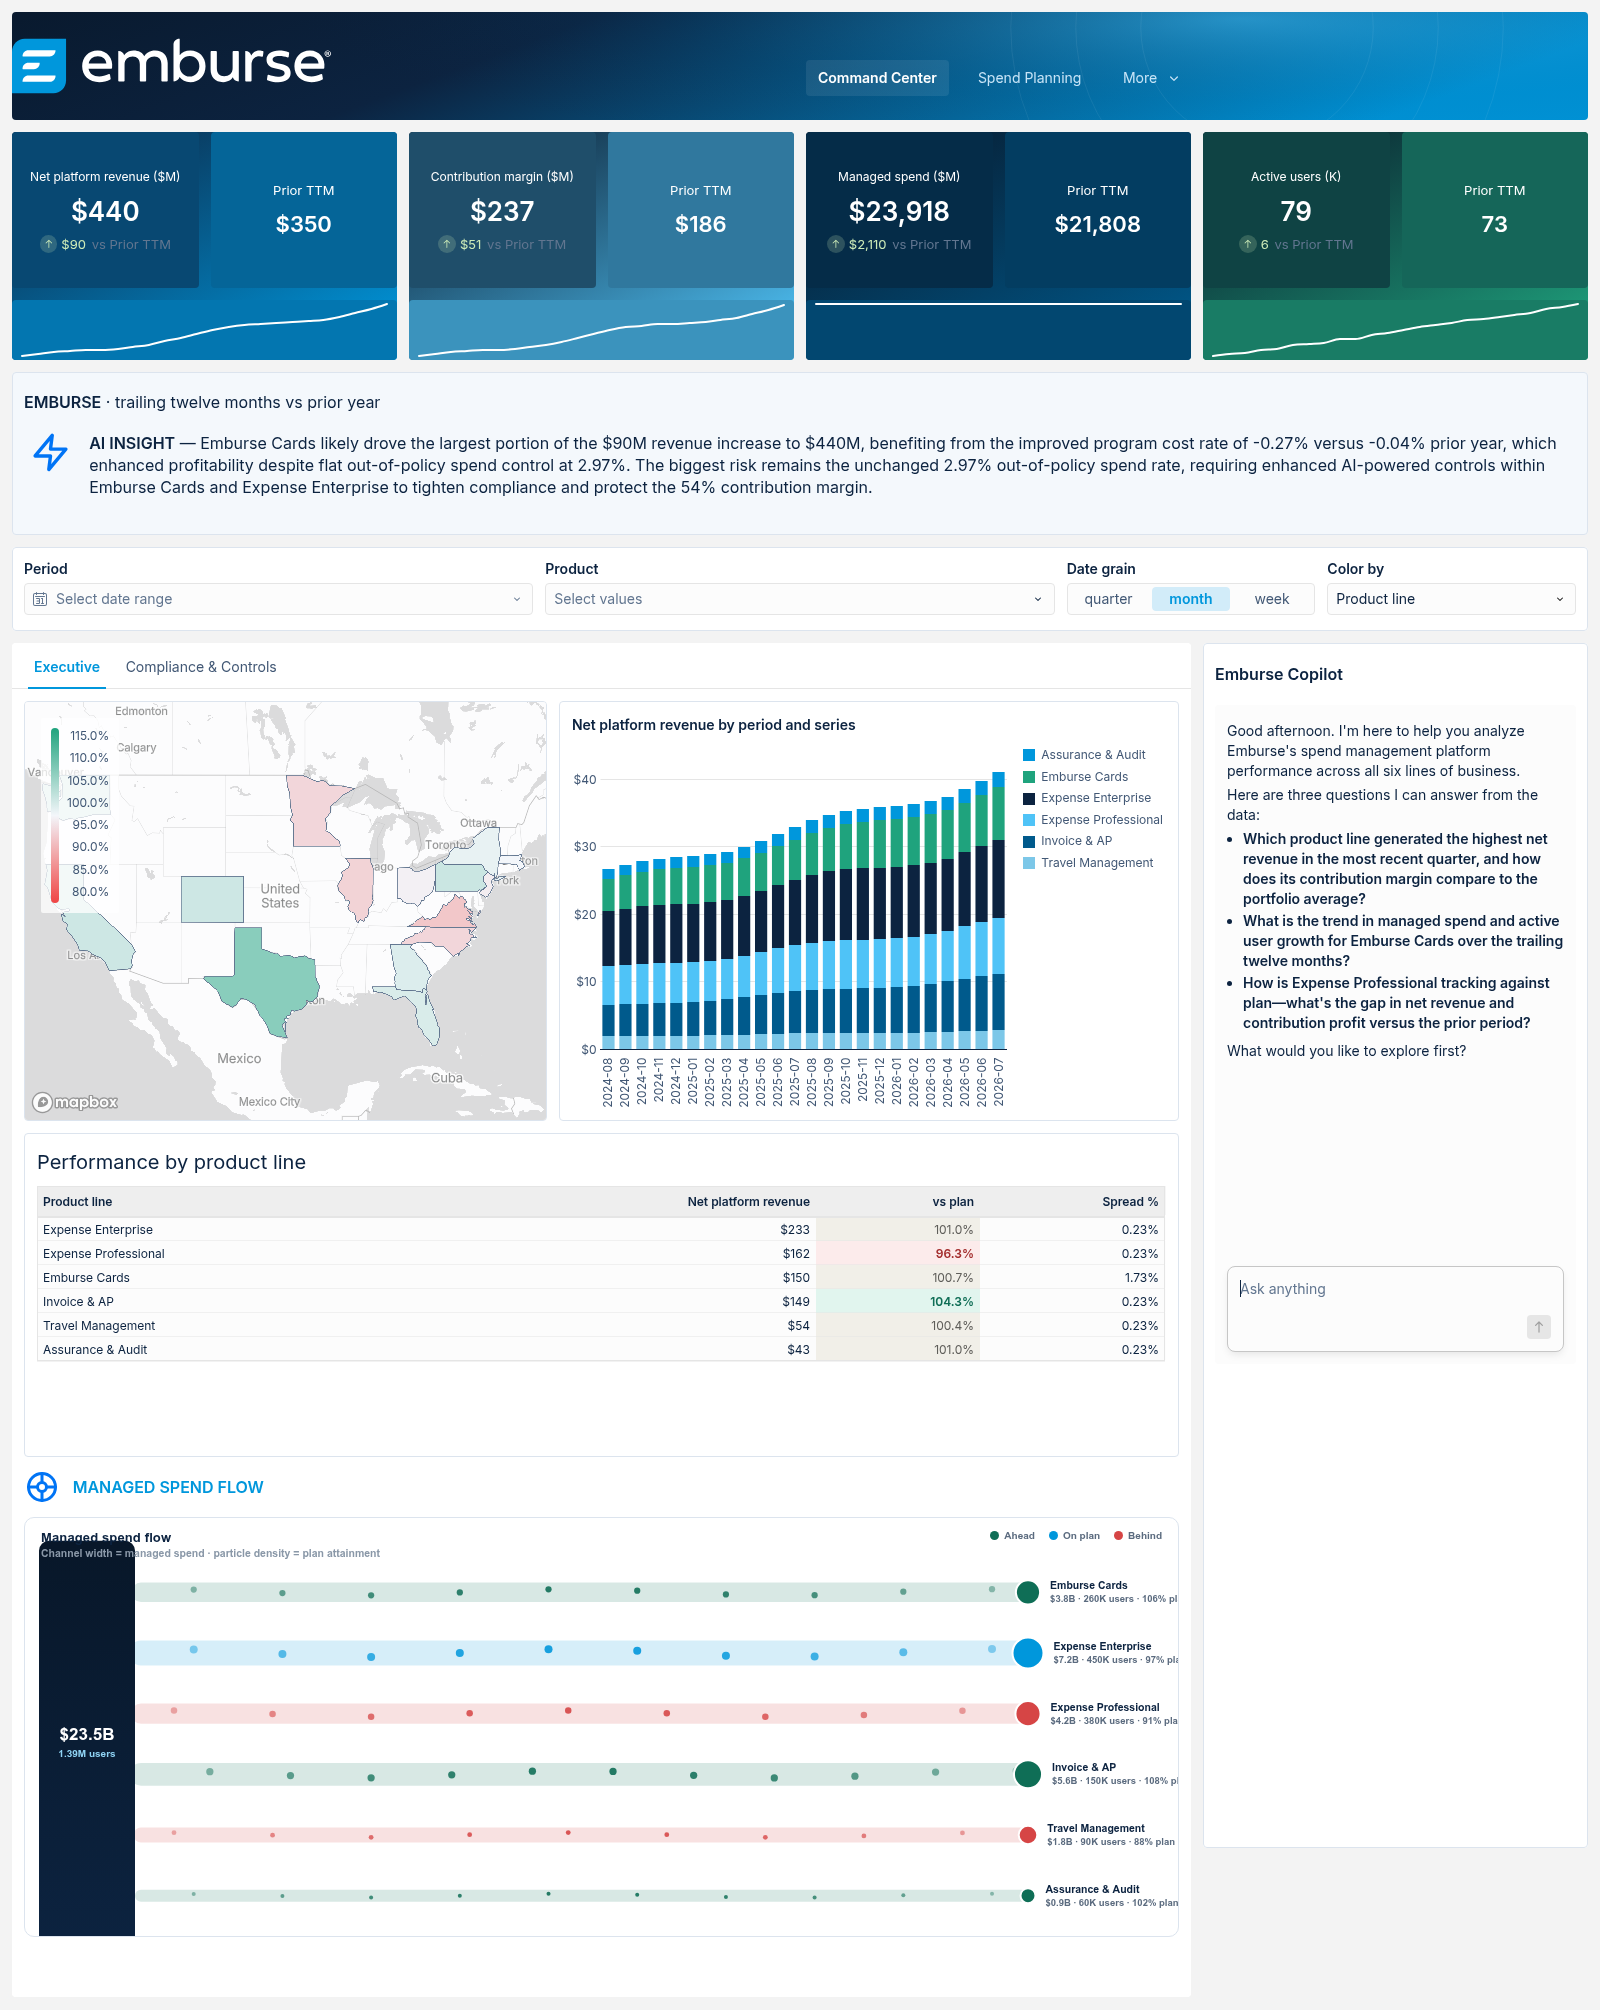
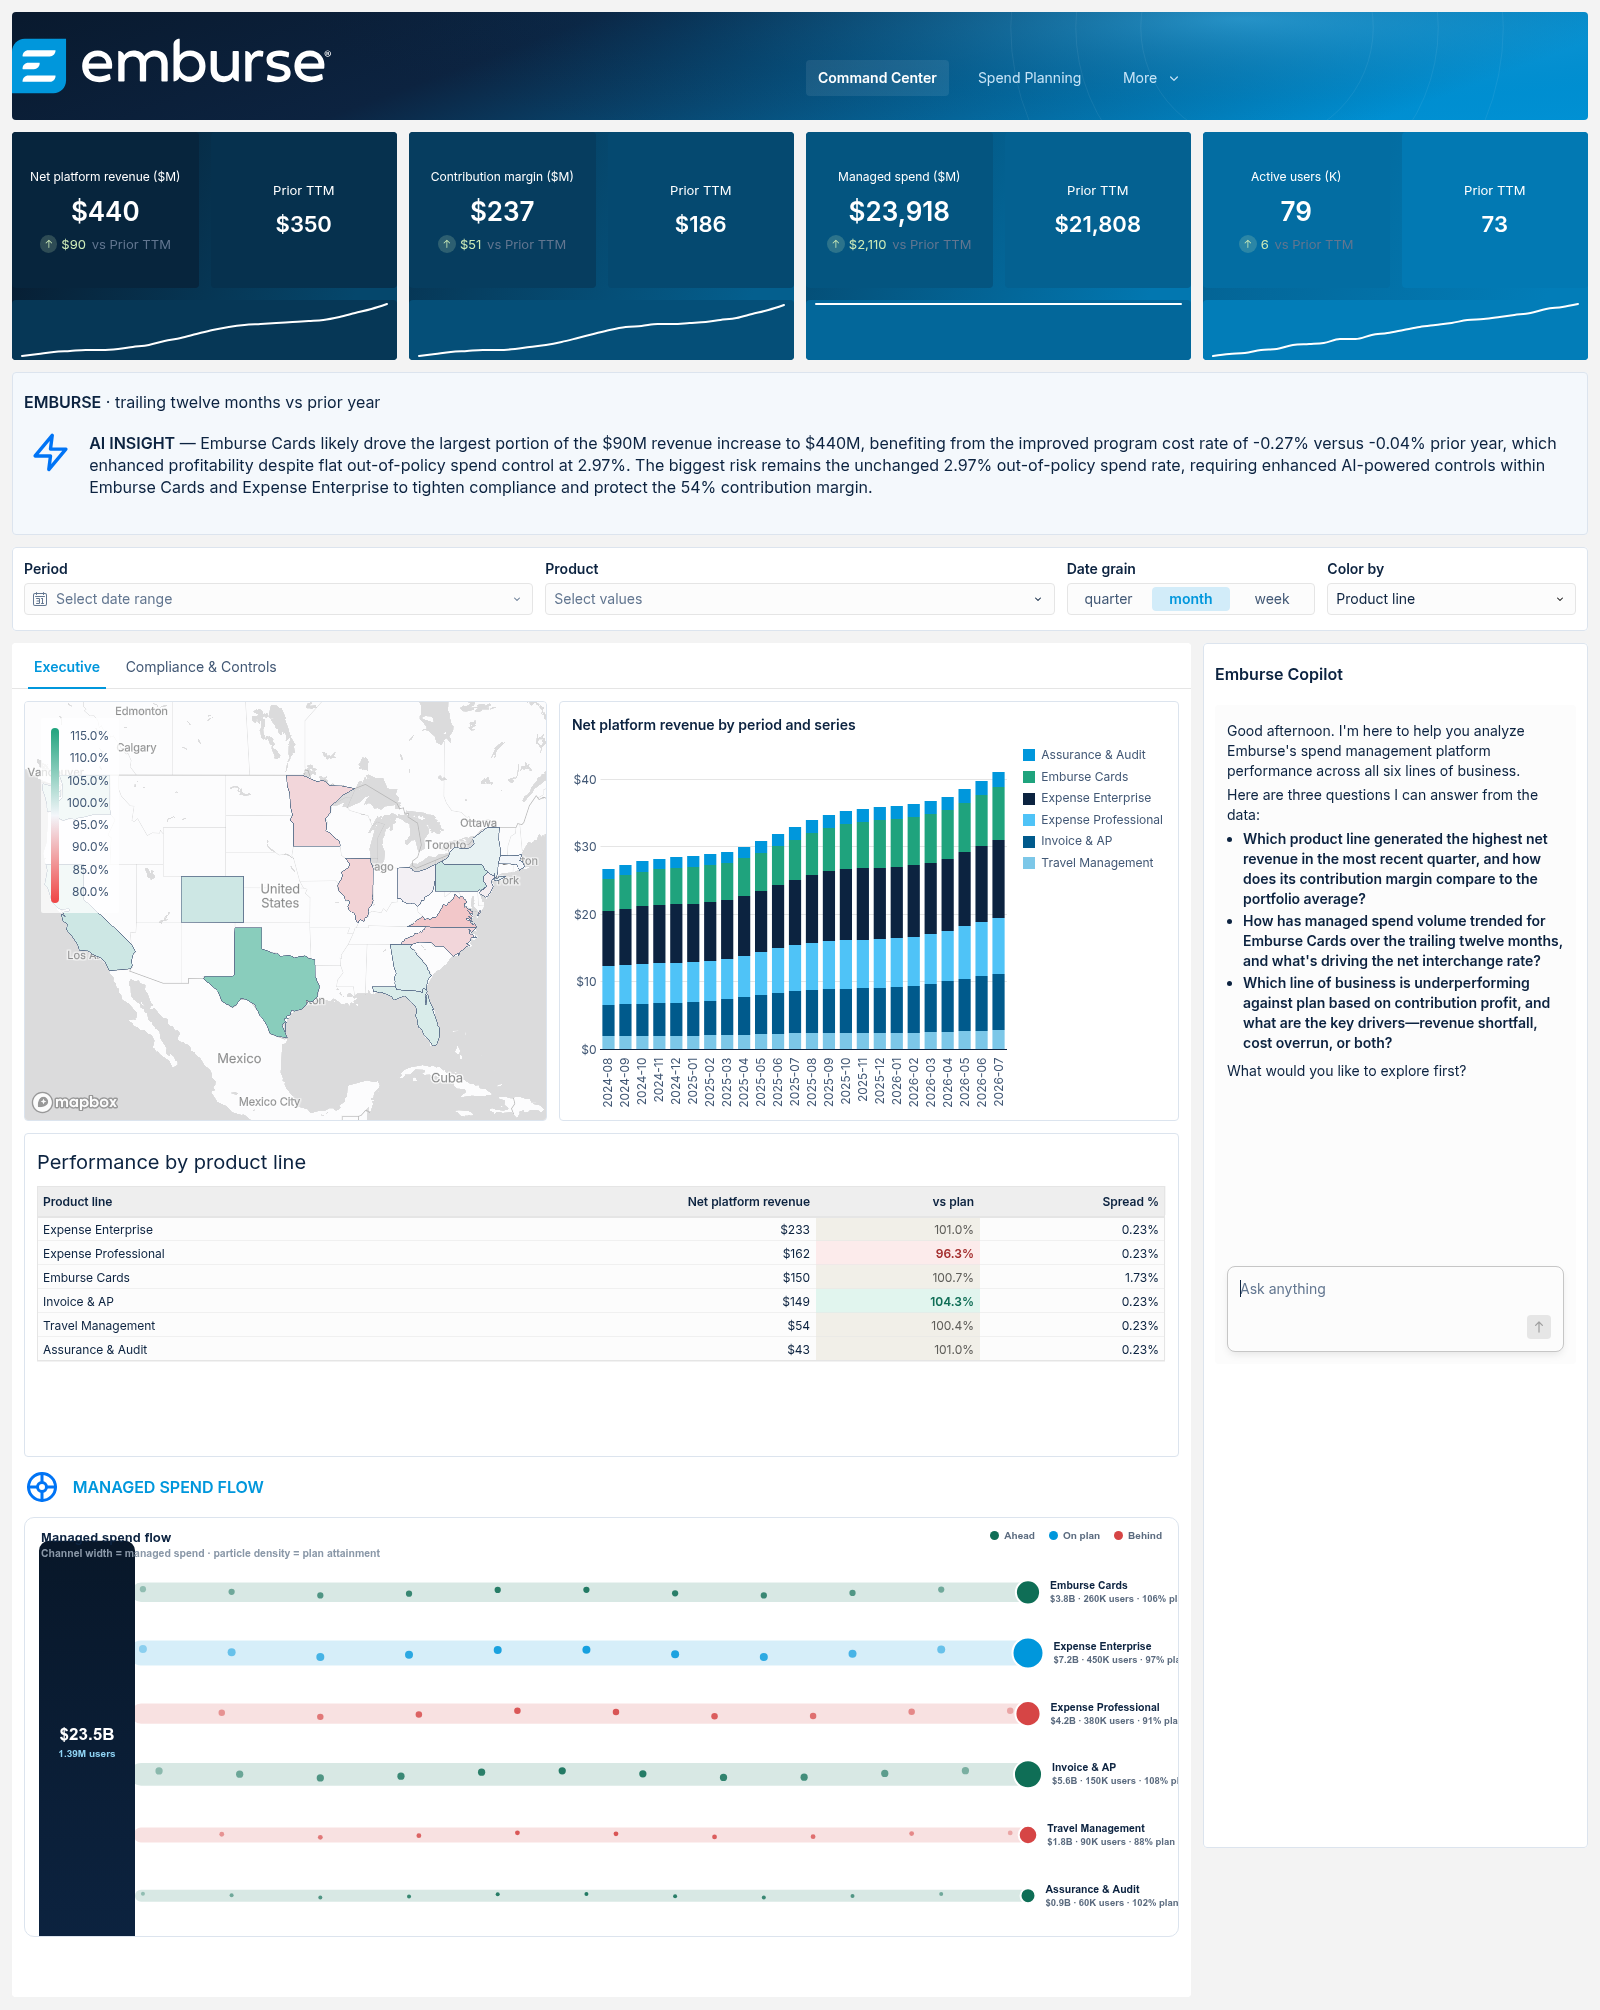
Ramp the KPI gradient once across the row, not per card
The four KPI cards each carried their own ga->gb gradient, so the row read
as four separate ramps (and the fourth came out mint green). Treat the whole
row as one coordinate space instead: x runs 0..1 across all four cards, each
card renders the `span` slice of a single ramp, and every child samples at
its row-global position. The row now sweeps once, left to right.

New in brand.py:
  * row_gradient_sample/_row_t -- flat hex off the row-wide ramp. Charts can
    still only paint a solid backgroundColor (see gradient_sample's probe),
    so this stays a per-tile flat sample.
  * row_gradient_slice -- the container's real background image, so gutters
    and rounded corners continue the ramp instead of stepping per card.
  * row_ramp_ends/ROW_RAMP_MAX_T -- caps the bright end at t=0.80. Every tile
    carries WHITE text; running the ramp to full SOFI_BRIGHT put the last
    card at ~3.3:1, below AA and worse than the per-card ramp it replaces.
    Capped, the worst tile is 4.54:1 and the ramp is still monotonic.

The row axis is much flatter than the per-card one (1.0, 0.25 vs 0.9, 1.0):
over four cards the old near-45' vector would resolve almost entirely into
the vertical and the left-to-right sweep would be invisible.

Verified on emburse (live, now v5) and nvidia. sofi/delta/mcd can't verify
here for an unrelated pre-existing reason -- their logo assets aren't in the
repo.

Changed region(s): [[0.0, 0.0617, 1.0, 0.1851], [0.7812, 0.4318, 0.9688, 0.5244]]

diff --git a/skills/sigma-company-dashboard-v2/scripts/build_sofi.py b/skills/sigma-company-dashboard-v2/scripts/build_sofi.py
@@ -259,7 +259,7 @@ KPI_SUBRECTS = {"kc": (0.0, 0.5, 0.0, 0.7),
                 "sp": (0.0, 1.0, 0.7, 1.0)}
 
 
-def kpi_card(key, label, cur, pri, fmt, ga, gb, spark):
+def kpi_card(key, label, cur, pri, fmt, ga, gb, spark, span=(0.0, 1.0)):
     """Matches the reference card() in sigma-company-dashboard's
     build_company_command_center.py. The thing that makes it read as a real KPI
     card is that the CURRENT kpi carries `comparisonColumn` + `comparison`, so
@@ -272,13 +272,24 @@ def kpi_card(key, label, cur, pri, fmt, ga, gb, spark):
     `style.backgroundColor` -- it takes no background image, and it cannot be
     made transparent, so it always masks whatever the parent container painted
     behind it (see B.gradient_sample for the probe that established this).
-    So every child samples the card's OWN ga->gb ramp at its own position and
-    fills with that. The card reads as a continuous gradient; the parent's real
-    gradient still shows in the gutters and the rounded corners."""
-    fill = lambda k: B.gradient_sample(ga, gb, *KPI_SUBRECTS[k])
+    So every child samples a ga->gb ramp at its own position and fills with
+    that. The parent's real gradient still shows in the gutters and the
+    rounded corners.
+
+    `span` is this card's horizontal slice of the KPI ROW, as fractions of the
+    whole row -- (0, .25) for the first of four, and so on. The ramp runs once
+    across the entire row rather than restarting per card, so the four cards
+    read as a single sweep; each child therefore samples at its row-global
+    position, not its position within this card."""
+    sx0, sx1 = span
+    def fill(k):
+        x0, x1, y0, y1 = KPI_SUBRECTS[k]
+        w = sx1 - sx0
+        return B.row_gradient_sample(ga, gb, sx0 + x0 * w, sx0 + x1 * w, y0, y1)
     add({"id": "c-%s" % key, "kind": "container", "spacing": "small",
          "style": {"borderRadius": "round", "padding": "none"},
-         "backgroundImage": {"source": {"kind": "url", "url": B.card_gradient(ga, gb)},
+         "backgroundImage": {"source": {"kind": "url",
+                                        "url": B.row_gradient_slice(ga, gb, sx0, sx1)},
                              "style": {"fit": "cover"}}})
     add({"id": "kc-%s" % key, "kind": "kpi-chart",
          "source": {"elementId": "tbl-lb", "kind": "table"},
@@ -721,20 +732,33 @@ add(dict(segmented_control("ctrl-colorby", "ColorBy", "Color by",
          value=CO.lab(CFG, "seg_product")))
 
 # --- KPI row
+#
+# ONE ramp across all four cards, not four per-card ramps. Each card gets the
+# `span` slice of it that matches its place in the row, so the row reads as a
+# single left-to-right sweep. This deliberately gives up the old per-KPI accent
+# colours (the fourth card used to come out mint green); the row now carries one
+# palette end to end.
+KPI_ROW_A, KPI_ROW_B = B.row_ramp_ends(B.NAVY_DEEP, B.SOFI_BRIGHT)
+_KPI_N = 4
+_span = lambda i: (i / float(_KPI_N), (i + 1) / float(_KPI_N))
+
 kpi_card("rev", CO.lab(CFG, "kpi_revenue"), cur_("Net Revenue"), pri_("Net Revenue"),
-         MONEY_M, B.NAVY, B.SOFI_BRIGHT, "Sum([%s/Net Revenue])" % LB)
+         MONEY_M, KPI_ROW_A, KPI_ROW_B, "Sum([%s/Net Revenue])" % LB,
+         span=_span(0))
 kpi_card("cp", CO.lab(CFG, "kpi_margin"), cur_("Contribution Profit"),
-         pri_("Contribution Profit"), MONEY_M, B.NAVY_DEEP, B.SOFI_CYAN,
-         "Sum([%s/Contribution Profit])" % LB)
+         pri_("Contribution Profit"), MONEY_M, KPI_ROW_A, KPI_ROW_B,
+         "Sum([%s/Contribution Profit])" % LB, span=_span(1))
 kpi_card("bal", CO.lab(CFG, "kpi_volume"),
          'SumIf([{t}/Avg Balances], [{t}/Period Name] = "Current Period") / 12'.format(t=LB),
          'SumIf([{t}/Avg Balances], [{t}/Period Name] = "Prior Period") / 12'.format(t=LB),
-         MONEY_M, B.NAVY_DEEP, B.SOFI_BLUE,
-         'SumIf([{t}/Avg Balances], [{t}/Balance Type] = "Loans")'.format(t=LB))
+         MONEY_M, KPI_ROW_A, KPI_ROW_B,
+         'SumIf([{t}/Avg Balances], [{t}/Balance Type] = "Loans")'.format(t=LB),
+         span=_span(2))
 kpi_card("mem", CO.lab(CFG, "kpi_units"),
          'MaxIf([{t}/Members (K)], [{t}/Period Name] = "Current Period")'.format(t=LB),
          'MaxIf([{t}/Members (K)], [{t}/Period Name] = "Prior Period")'.format(t=LB),
-         NUM0, B.NAVY_DEEP, B.SOFI_MINT, "Sum([%s/Members (K)])" % LB)
+         NUM0, KPI_ROW_A, KPI_ROW_B, "Sum([%s/Members (K)])" % LB,
+         span=_span(3))
 
 # --- AI insight
 # The AI insight lives in the rail beside the copilot -- it's an AI surface, and

diff --git a/skills/sigma-company-dashboard-v2/scripts/brand.py b/skills/sigma-company-dashboard-v2/scripts/brand.py
@@ -184,6 +184,70 @@ def gradient_sample(a, b, x0, x1, y0, y1) -> str:
     return _mix(a, b, t)
 
 
+# ---------------------------------------------------------------------------
+# ONE ramp across the whole KPI row
+#
+# card_gradient/gradient_sample above ramp within a SINGLE card, so a four-card
+# row reads as four separate gradients. The helpers below instead treat the
+# entire row as one coordinate space -- x runs 0..1 across ALL the cards, y
+# runs 0..1 down one card -- so each card renders its own slice of a single
+# continuous ramp and the row reads as one sweep left to right.
+#
+# The axis is deliberately much flatter than the per-card one: over a row four
+# cards wide, card_gradient's near-45' vector would resolve almost entirely
+# into the vertical, and the left-to-right sweep would be invisible. Keeping a
+# small vertical component stops it looking like a flat horizontal wipe.
+_ROW_GRAD_X2, _ROW_GRAD_Y2 = 1.0, 0.25
+
+
+def _row_t(x: float, y: float) -> float:
+    """Position along the row ramp (0..1) for a point in row-global space."""
+    t = (x * _ROW_GRAD_X2 + y * _ROW_GRAD_Y2) / (_ROW_GRAD_X2 ** 2 + _ROW_GRAD_Y2 ** 2)
+    return 0.0 if t < 0.0 else (1.0 if t > 1.0 else t)
+
+
+def row_gradient_sample(a, b, x0, x1, y0, y1) -> str:
+    """Flat hex off the ROW-wide ramp at the centre of a row-global sub-rect.
+
+    Same hard constraint as gradient_sample() -- see its docstring for the
+    probe -- a chart element can only ever paint a solid backgroundColor, so
+    each tile gets the single colour the row ramp has at its own position.
+    """
+    return _mix(a, b, _row_t((x0 + x1) / 2.0, (y0 + y1) / 2.0))
+
+
+# How far along a->b the row ramp is allowed to travel. Every KPI tile carries
+# WHITE text (value, label, and the delta badge), so the bright end has to stay
+# dark enough to hold it. Running the ramp all the way to SOFI_BRIGHT puts the
+# last card at ~3.3:1 -- below WCAG AA's 4.5:1 for the 12-13px labels, and
+# worse than the per-card ramp this replaced. 0.80 is the furthest that still
+# clears 4.5:1 on Emburse's #0097DC; re-check with a darker brand primary if a
+# company ever looks washed out here.
+ROW_RAMP_MAX_T = 0.80
+
+
+def row_ramp_ends(a, b):
+    """(dark, bright) endpoints for the KPI row ramp, bright end capped to
+    ROW_RAMP_MAX_T so white text stays legible on the last card."""
+    return a, _mix(a, b, ROW_RAMP_MAX_T)
+
+
+def row_gradient_slice(a, b, x0, x1, width=520, height=300) -> str:
+    """SVG data URI for ONE card's container background: the x0..x1 horizontal
+    slice of the row-wide ramp. Containers (unlike charts) do take a real
+    background image, so this is what keeps the gutters and the rounded corners
+    between cards continuous with the ramp instead of stepping at each card."""
+    ca = _mix(a, b, _row_t(x0, 0.0))
+    cb = _mix(a, b, _row_t(x1, 1.0))
+    svg = f"""<svg xmlns="http://www.w3.org/2000/svg" width="{width}" height="{height}" viewBox="0 0 {width} {height}">
+  <defs><linearGradient id="c" x1="0" y1="0" x2="1" y2="{_ROW_GRAD_Y2}">
+    <stop offset="0%" stop-color="{ca}"/><stop offset="100%" stop-color="{cb}"/>
+  </linearGradient></defs>
+  <rect width="{width}" height="{height}" fill="url(#c)"/>
+</svg>"""
+    return datauri_svg(svg)
+
+
 def icon(path_d: str, color=SOFI_BRIGHT, size=24) -> str:
     svg = (f'<svg xmlns="http://www.w3.org/2000/svg" width="{size}" height="{size}" '
            f'viewBox="0 0 24 24" fill="none" stroke="{color}" stroke-width="2" '
